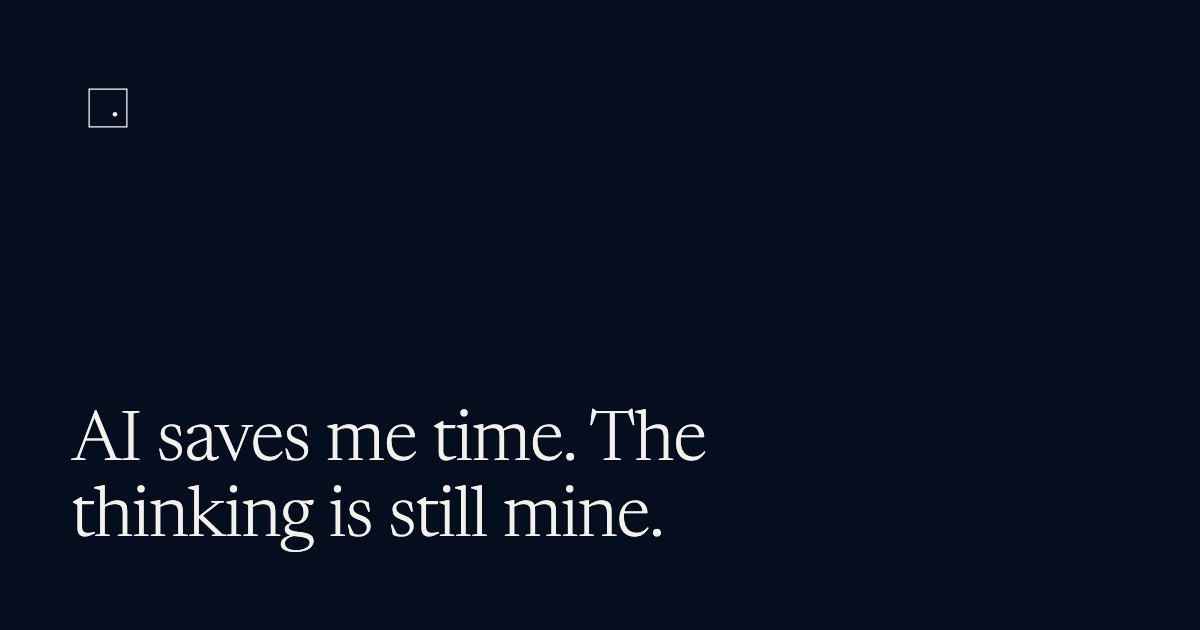
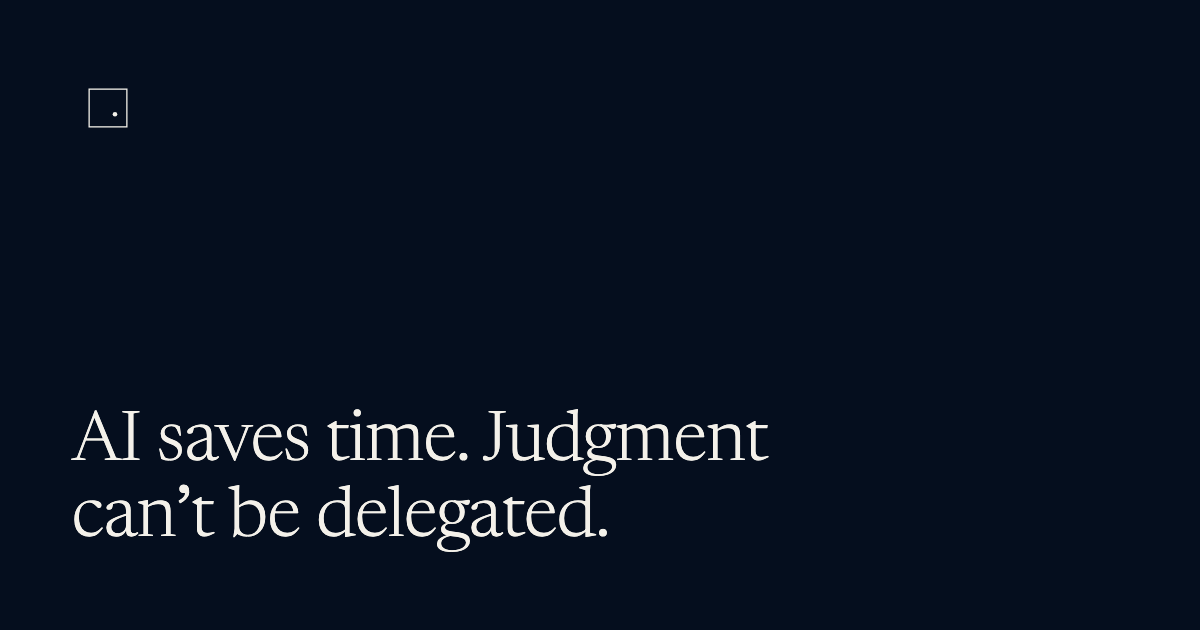
Criterio · canibalización paso 2: la-ia-no-te-va-a-reemplazar / ai-wont-replace-you se reorientan a «qué hace bien la IA y qué no», en impersonal (title, H1, meta, og, WA, OG nueva). Se quita «La uso todos los días» / «I use it every day». Anclas actualizadas en 14 notas y en los índices. llms.txt c

Changed region(s): [[0.0617, 0.6333, 0.555, 0.8746], [0.5858, 0.6635, 0.6475, 0.754]]

diff --git a/criterio/la-ia-no-te-va-a-reemplazar/index.html b/criterio/la-ia-no-te-va-a-reemplazar/index.html
@@ -4,12 +4,12 @@
 <meta charset="UTF-8">
 <meta name="viewport" content="width=device-width, initial-scale=1.0, viewport-fit=cover">
 <meta name="theme-color" content="#f6f4ef">
-<title>La IA me ahorra tiempo. El criterio todavía me toca a mí. · Criterio · SpotOne Realty</title>
-<meta name="description" content="Lo que la inteligencia artificial sí cambia en bienes raíces — y lo que no puede tocar. Para quien compra, vende, alquila, invierte o trabaja en el sector. Por Dario Jhangimal, corredor PN-1240.">
+<title>Qué hace bien la IA en bienes raíces y qué no · Criterio · SpotOne Realty</title>
+<meta name="description" content="Qué hace bien la inteligencia artificial al comprar, vender o alquilar en Panamá, y lo que no puede ver: el edificio, la persona y la negociación.">
 <meta name="robots" content="index,follow,max-image-preview:large">
 <meta property="og:type" content="article">
 <meta property="og:site_name" content="SpotOne Realty">
-<meta property="og:title" content="La IA me ahorra tiempo. El criterio todavía me toca a mí.">
+<meta property="og:title" content="La IA ahorra tiempo. El criterio no se delega.">
 <meta property="og:description" content="Lo que la inteligencia artificial sí cambia en bienes raíces — y lo que no puede tocar.">
 <meta property="og:url" content="https://www.spotonerealty.com/criterio/la-ia-no-te-va-a-reemplazar/">
 <meta property="og:image" content="https://www.spotonerealty.com/images/og/criterio-la-ia-no-te-va-a-reemplazar-es.png">
@@ -17,7 +17,7 @@
 <meta property="og:image:height" content="630">
 <meta property="og:locale" content="es_PA">
 <meta name="twitter:card" content="summary_large_image">
-<meta name="twitter:title" content="La IA me ahorra tiempo. El criterio todavía me toca a mí.">
+<meta name="twitter:title" content="La IA ahorra tiempo. El criterio no se delega.">
 <meta name="twitter:description" content="Lo que la inteligencia artificial sí cambia en bienes raíces — y lo que no puede tocar.">
 <meta name="twitter:image" content="https://www.spotonerealty.com/images/og/criterio-la-ia-no-te-va-a-reemplazar-es.png">
 <link rel="canonical" href="https://www.spotonerealty.com/criterio/la-ia-no-te-va-a-reemplazar/">
@@ -36,7 +36,7 @@
   "@context": "https://schema.org",
   "@type": "Article",
   "abstract": "La IA cambia mucho la forma de trabajar: ordena listados, compara precios, detecta anuncios repetidos y hace en minutos lo que antes tomaba horas. Pero no camina una propiedad, no lee a la persona que tienes al frente ni negocia con tacto. Da velocidad e información, y la pelea no es IA contra corredor: es criterio más tecnología contra improvisación.",
-  "headline": "La IA me ahorra tiempo. El criterio todavía me toca a mí.",
+  "headline": "La IA ahorra tiempo. El criterio no se delega.",
   "inLanguage": "es",
   "datePublished": "2026-06-04",
   "dateModified": "2026-06-04",
@@ -91,9 +91,9 @@
     <div class="crit-wrap">
       <a href="/criterio/" class="crit-back">← Criterio</a>
       <span class="crit-tag">IA &amp; herramientas</span>
-      <h1 class="crit-title">La IA me ahorra tiempo. <em>El criterio</em> todavía me toca a mí.</h1>
+      <h1 class="crit-title">La IA ahorra tiempo. <em>El criterio</em> no se delega.</h1>
       <p class="crit-dek">Lo que la inteligencia artificial sí cambia en bienes raíces — y lo que no puede tocar.</p>
-      <p class="plain solo-movil crit-wa"><a class="btn" href="https://wa.me/50766758127?text=Hola%20Dario%2C%20le%C3%AD%20tu%20nota%20%C2%ABLa%20IA%20me%20ahorra%20tiempo.%20El%20criterio%20todav%C3%ADa%20me%20toca%20a%20m%C3%AD.%C2%BB%20y%20quisiera%20hablar%20contigo" rel="noopener">Escríbeme por WhatsApp</a></p>
+      <p class="plain solo-movil crit-wa"><a class="btn" href="https://wa.me/50766758127?text=Hola%20Dario%2C%20le%C3%AD%20tu%20nota%20%C2%ABLa%20IA%20ahorra%20tiempo.%20El%20criterio%20no%20se%20delega.%C2%BB%20y%20quisiera%20hablar%20contigo" rel="noopener">Escríbeme por WhatsApp</a></p>
       <div class="crit-meta">Para quien decide en bienes raíces — no solo para el gremio</div>
 
       <div class="crit-body">
@@ -102,7 +102,7 @@
 
         <p>Las dos ideas me parecen exageradas.</p>
 
-        <p>La uso todos los días. Y sí: cambia muchísimo la forma de trabajar.</p>
+        <p>Y sí: bien usada, cambia muchísimo la forma de trabajar.</p>
 
         <p>Sirve para ordenar listados, comparar precios, detectar anuncios repetidos, investigar más rápido, resumir información y hacer en minutos cosas que antes tomaban horas.</p>
 

diff --git a/criterio/ai-wont-replace-you/index.html b/criterio/ai-wont-replace-you/index.html
@@ -4,12 +4,12 @@
 <meta charset="UTF-8">
 <meta name="viewport" content="width=device-width, initial-scale=1.0, viewport-fit=cover">
 <meta name="theme-color" content="#f6f4ef">
-<title>AI saves me time. The thinking is still mine. · Perspective · SpotOne Realty</title>
-<meta name="description" content="What artificial intelligence changes in real estate — and what it can't touch. For anyone making a real estate decision in Panama. By Dario Jhangimal, licensed broker PN-1240.">
+<title>What AI does well in real estate, and what it can’t · Perspective · SpotOne Realty</title>
+<meta name="description" content="What artificial intelligence does well when you buy, sell or rent in Panama, and what it can’t see: the building, the person, the negotiation.">
 <meta name="robots" content="index,follow,max-image-preview:large">
 <meta property="og:type" content="article">
 <meta property="og:site_name" content="SpotOne Realty">
-<meta property="og:title" content="AI saves me time. The thinking is still mine.">
+<meta property="og:title" content="AI saves time. Judgment can’t be delegated.">
 <meta property="og:description" content="What artificial intelligence changes in real estate — and what it can't touch.">
 <meta property="og:url" content="https://www.spotonerealty.com/criterio/ai-wont-replace-you/">
 <meta property="og:image" content="https://www.spotonerealty.com/images/og/criterio-ai-wont-replace-you-en.png">
@@ -17,7 +17,7 @@
 <meta property="og:image:height" content="630">
 <meta property="og:locale" content="en_US">
 <meta name="twitter:card" content="summary_large_image">
-<meta name="twitter:title" content="AI saves me time. The thinking is still mine.">
+<meta name="twitter:title" content="AI saves time. Judgment can’t be delegated.">
 <meta name="twitter:image" content="https://www.spotonerealty.com/images/og/criterio-ai-wont-replace-you-en.png">
 <link rel="canonical" href="https://www.spotonerealty.com/criterio/ai-wont-replace-you/">
 <link rel="alternate" hreflang="es" href="https://www.spotonerealty.com/criterio/la-ia-no-te-va-a-reemplazar/">
@@ -38,7 +38,7 @@
   "@context": "https://schema.org",
   "@type": "Article",
   "abstract": "AI changes how real estate work gets done: it sorts listings, compares prices, catches duplicate postings and does in minutes what used to take hours. What it doesn't do is walk a property, read the person in front of you, negotiate with tact or carry someone's trust. It gives speed and information; knowing what matters is still on you.",
-  "headline": "AI saves me time. The thinking is still mine.",
+  "headline": "AI saves time. Judgment can’t be delegated.",
   "inLanguage": "en",
   "datePublished": "2026-06-04",
   "dateModified": "2026-06-04",
@@ -90,9 +90,9 @@
     <div class="crit-wrap">
       <a href="/criterio/en/" class="crit-back">← Perspective</a>
       <span class="crit-tag">AI &amp; Tools</span>
-      <h1 class="crit-title">AI saves me time. <em>The thinking</em> is still mine.</h1>
+      <h1 class="crit-title">AI saves time. <em>Judgment</em> can’t be delegated.</h1>
       <p class="crit-dek">What artificial intelligence does change in real estate — and what it can't touch.</p>
-      <p class="plain solo-movil crit-wa"><a class="btn" href="https://wa.me/50766758127?text=Hi%20Dario%2C%20I%20read%20your%20note%20%E2%80%9CAI%20saves%20me%20time.%20The%20thinking%20is%20still%20mine.%E2%80%9D%20and%20would%20like%20to%20talk" rel="noopener">Message me on WhatsApp</a></p>
+      <p class="plain solo-movil crit-wa"><a class="btn" href="https://wa.me/50766758127?text=Hi%20Dario%2C%20I%20read%20your%20note%20%E2%80%9CAI%20saves%20time.%20Judgment%20can%E2%80%99t%20be%20delegated.%E2%80%9D%20and%20would%20like%20to%20talk" rel="noopener">Message me on WhatsApp</a></p>
       <div class="crit-meta">For anyone making a real estate decision — not just the trade</div>
 
       <div class="crit-body">
@@ -101,7 +101,7 @@
 
         <p>Both ideas strike me as overblown.</p>
 
-        <p>I use it every day. And yes: it changes how you work, a lot.</p>
+        <p>And yes: used well, it changes how you work, a lot.</p>
 
         <p>It's good for sorting listings, comparing prices, catching duplicate postings, researching faster, summarizing, and doing in minutes what used to take hours.</p>
 

diff --git a/criterio/index.html b/criterio/index.html
@@ -348,7 +348,7 @@ h1,h2,h3,.cifra,.stat,.card-fig,.num{font-family:'Newsreader',Georgia,serif}
    "@type": "ListItem",
    "position": 47,
    "url": "https://www.spotonerealty.com/criterio/la-ia-no-te-va-a-reemplazar/",
-   "name": "La IA me ahorra tiempo. El criterio todavía me toca a mí."
+   "name": "La IA ahorra tiempo. El criterio no se delega."
   },
   {
    "@type": "ListItem",
@@ -581,7 +581,7 @@ h1,h2,h3,.cifra,.stat,.card-fig,.num{font-family:'Newsreader',Georgia,serif}
 <a class="nota-card" data-cat="decisiones" href="/criterio/segunda-vivienda-estrategia/"><span class="cat">Decisiones</span><h3>La segunda vivienda dejó de ser lujo. <em>Es estrategia</em>.</h3><p>Por qué cada vez más gente la compra pensando en patrimonio, no solo en escaparse.</p></a>
 <a class="nota-card" data-cat="edificios" href="/criterio/las-amenidades-cambiaron/"><span class="cat">Edificios &amp; zonas</span><h3>Las amenidades cambiaron. <em>El comprador también</em>.</h3><p>Qué cambió en lo que el comprador realmente valora — y por qué.</p></a>
 <a class="nota-card" data-cat="mercado" href="/criterio/el-mismo-apartamento-cinco-veces/"><span class="cat">Mercado</span><h3>Cuando el mismo apartamento aparece <em>cinco veces</em></h3><p>Y qué te dice de verdad cuando lo ves repetido.</p></a>
-<a class="nota-card" data-cat="ia" href="/criterio/la-ia-no-te-va-a-reemplazar/"><span class="cat">IA &amp; herramientas</span><h3>La IA me ahorra tiempo. <em>El criterio</em> todavía me toca a mí.</h3><p>Lo que la inteligencia artificial sí cambia en bienes raíces — y lo que no puede tocar.</p></a>
+<a class="nota-card" data-cat="ia" href="/criterio/la-ia-no-te-va-a-reemplazar/"><span class="cat">IA &amp; herramientas</span><h3>La IA ahorra tiempo. <em>El criterio</em> no se delega.</h3><p>Lo que la inteligencia artificial sí cambia en bienes raíces — y lo que no puede tocar.</p></a>
 </div>
     <div class="mas" style="display:none"><button class="out" id="mas" type="button">Cargar más →</button></div>
   </div>

diff --git a/criterio/en/index.html b/criterio/en/index.html
@@ -347,7 +347,7 @@ h1,h2,h3,.cifra,.stat,.card-fig,.num{font-family:'Newsreader',Georgia,serif}
    "@type": "ListItem",
    "position": 47,
    "url": "https://www.spotonerealty.com/criterio/ai-wont-replace-you/",
-   "name": "AI saves me time. The thinking is still mine."
+   "name": "AI saves time. Judgment can’t be delegated."
   },
   {
    "@type": "ListItem",
@@ -580,7 +580,7 @@ h1,h2,h3,.cifra,.stat,.card-fig,.num{font-family:'Newsreader',Georgia,serif}
 <a class="nota-card" data-cat="decisiones" href="/criterio/second-home-strategy/"><span class="cat">Decisions</span><h3>The second home stopped being a luxury. <em>It's strategy</em>.</h3><p>Why more and more people buy it thinking about wealth, not just about getting away.</p></a>
 <a class="nota-card" data-cat="edificios" href="/criterio/amenities-changed/"><span class="cat">Buildings &amp; Neighborhoods</span><h3>The amenities changed. <em>So did the buyer</em>.</h3><p>What buyers really value now — and why.</p></a>
 <a class="nota-card" data-cat="mercado" href="/criterio/the-same-apartment-five-times/"><span class="cat">Market</span><h3>When the same apartment shows up <em>five times</em></h3><p>And what it actually tells you when you see it repeated.</p></a>
-<a class="nota-card" data-cat="ia" href="/criterio/ai-wont-replace-you/"><span class="cat">AI &amp; Tools</span><h3>AI saves me time. <em>The thinking</em> is still mine.</h3><p>What artificial intelligence does change in real estate — and what it can't touch.</p></a>
+<a class="nota-card" data-cat="ia" href="/criterio/ai-wont-replace-you/"><span class="cat">AI &amp; Tools</span><h3>AI saves time. <em>Judgment</em> can’t be delegated.</h3><p>What artificial intelligence does change in real estate — and what it can't touch.</p></a>
 </div>
     <div class="mas" style="display:none"><button class="out" id="mas" type="button">Load more →</button></div>
   </div>

diff --git a/criterio/gangas-reales-vs-instagram/index.html b/criterio/gangas-reales-vs-instagram/index.html
@@ -114,7 +114,7 @@
       <nav class="crit-related" aria-label="Sigue leyendo">
         <p class="crit-rel-l">Sigue leyendo</p>
         <a href="/criterio/el-mismo-apartamento-cinco-veces/">Cuando el mismo apartamento aparece cinco veces →</a>
-        <a href="/criterio/la-ia-no-te-va-a-reemplazar/">La IA me ahorra tiempo. El criterio todavía me toca a mí. →</a>
+        <a href="/criterio/la-ia-no-te-va-a-reemplazar/">La IA ahorra tiempo. El criterio no se delega. →</a>
         <a href="/criterio/las-amenidades-cambiaron/">Las amenidades cambiaron. El comprador también. →</a>
       </nav>
 

diff --git a/criterio/ia-reemplaza-corredores/index.html b/criterio/ia-reemplaza-corredores/index.html
@@ -147,7 +147,7 @@
 
       <nav class="crit-related" aria-label="Sigue leyendo">
         <p class="crit-rel-l">Sigue leyendo</p>
-        <a href="/criterio/la-ia-no-te-va-a-reemplazar/">La IA me ahorra tiempo. El criterio todavía me toca a mí. →</a>
+        <a href="/criterio/la-ia-no-te-va-a-reemplazar/">La IA ahorra tiempo. El criterio no se delega. →</a>
         <a href="/criterio/como-saber-si-una-zona-se-valoriza/">¿Cómo saber si una zona se va a valorizar? →</a>
         <a href="/criterio/un-corredor-o-cinco/">¿Un corredor que te representa, o cinco que no? →</a>
       </nav>

diff --git a/criterio/el-mismo-apartamento-cinco-veces/index.html b/criterio/el-mismo-apartamento-cinco-veces/index.html
@@ -123,7 +123,7 @@
       <nav class="crit-related" aria-label="Sigue leyendo">
         <p class="crit-rel-l">Sigue leyendo</p>
         <a href="/criterio/gangas-reales-vs-instagram/">Gangas reales y gangas de Instagram. →</a>
-        <a href="/criterio/la-ia-no-te-va-a-reemplazar/">La IA me ahorra tiempo. El criterio todavía me toca a mí. →</a>
+        <a href="/criterio/la-ia-no-te-va-a-reemplazar/">La IA ahorra tiempo. El criterio no se delega. →</a>
         <a href="/criterio/las-amenidades-cambiaron/">Las amenidades cambiaron. El comprador también. →</a>
       </nav>
 

diff --git a/criterio/la-unidad-se-achica/index.html b/criterio/la-unidad-se-achica/index.html
@@ -117,7 +117,7 @@
         <p class="crit-rel-l">Sigue leyendo</p>
         <a href="/criterio/las-amenidades-cambiaron/">Las amenidades cambiaron. El comprador también. →</a>
         <a href="/criterio/paneles-solares-valor-o-ahorro/">Paneles solares: ¿valor o cuenta de luz? →</a>
-        <a href="/criterio/la-ia-no-te-va-a-reemplazar/">La IA me ahorra tiempo. El criterio todavía me toca a mí. →</a>
+        <a href="/criterio/la-ia-no-te-va-a-reemplazar/">La IA ahorra tiempo. El criterio no se delega. →</a>
       </nav>
 
       <div class="signature">

diff --git a/criterio/paneles-solares-valor-o-ahorro/index.html b/criterio/paneles-solares-valor-o-ahorro/index.html
@@ -115,7 +115,7 @@
         <p class="crit-rel-l">Sigue leyendo</p>
         <a href="/criterio/las-amenidades-cambiaron/">Las amenidades cambiaron. El comprador también. →</a>
         <a href="/criterio/la-unidad-se-achica/">La unidad se achica. El precio por metro, no. →</a>
-        <a href="/criterio/la-ia-no-te-va-a-reemplazar/">La IA me ahorra tiempo. El criterio todavía me toca a mí. →</a>
+        <a href="/criterio/la-ia-no-te-va-a-reemplazar/">La IA ahorra tiempo. El criterio no se delega. →</a>
       </nav>
 
       <div class="signature">

diff --git a/criterio/las-amenidades-cambiaron/index.html b/criterio/las-amenidades-cambiaron/index.html
@@ -117,7 +117,7 @@
         <p class="crit-rel-l">Sigue leyendo</p>
         <a href="/criterio/la-unidad-se-achica/">La unidad se achica. El precio por metro, no. →</a>
         <a href="/criterio/paneles-solares-valor-o-ahorro/">Paneles solares: ¿valor o cuenta de luz? →</a>
-        <a href="/criterio/la-ia-no-te-va-a-reemplazar/">La IA me ahorra tiempo. El criterio todavía me toca a mí. →</a>
+        <a href="/criterio/la-ia-no-te-va-a-reemplazar/">La IA ahorra tiempo. El criterio no se delega. →</a>
       </nav>
 
       <div class="signature">

diff --git a/criterio/will-ai-replace-real-estate-agents/index.html b/criterio/will-ai-replace-real-estate-agents/index.html
@@ -147,7 +147,7 @@
 
       <nav class="crit-related" aria-label="Keep reading">
         <p class="crit-rel-l">Keep reading</p>
-        <a href="/criterio/ai-wont-replace-you/">AI saves me time. The thinking is still mine. →</a>
+        <a href="/criterio/ai-wont-replace-you/">AI saves time. Judgment can’t be delegated. →</a>
         <a href="/criterio/spot-an-appreciating-area/">How to tell if an area will appreciate? →</a>
         <a href="/criterio/one-broker-or-five/">One broker who represents you, or five who don't? →</a>
       </nav>

diff --git a/criterio/real-vs-instagram-bargains/index.html b/criterio/real-vs-instagram-bargains/index.html
@@ -114,7 +114,7 @@
       <nav class="crit-related" aria-label="Keep reading">
         <p class="crit-rel-l">Keep reading</p>
         <a href="/criterio/the-same-apartment-five-times/">When the same apartment shows up five times →</a>
-        <a href="/criterio/ai-wont-replace-you/">AI saves me time. The thinking is still mine. →</a>
+        <a href="/criterio/ai-wont-replace-you/">AI saves time. Judgment can’t be delegated. →</a>
         <a href="/criterio/amenities-changed/">The amenities changed. So did the buyer. →</a>
       </nav>
 
